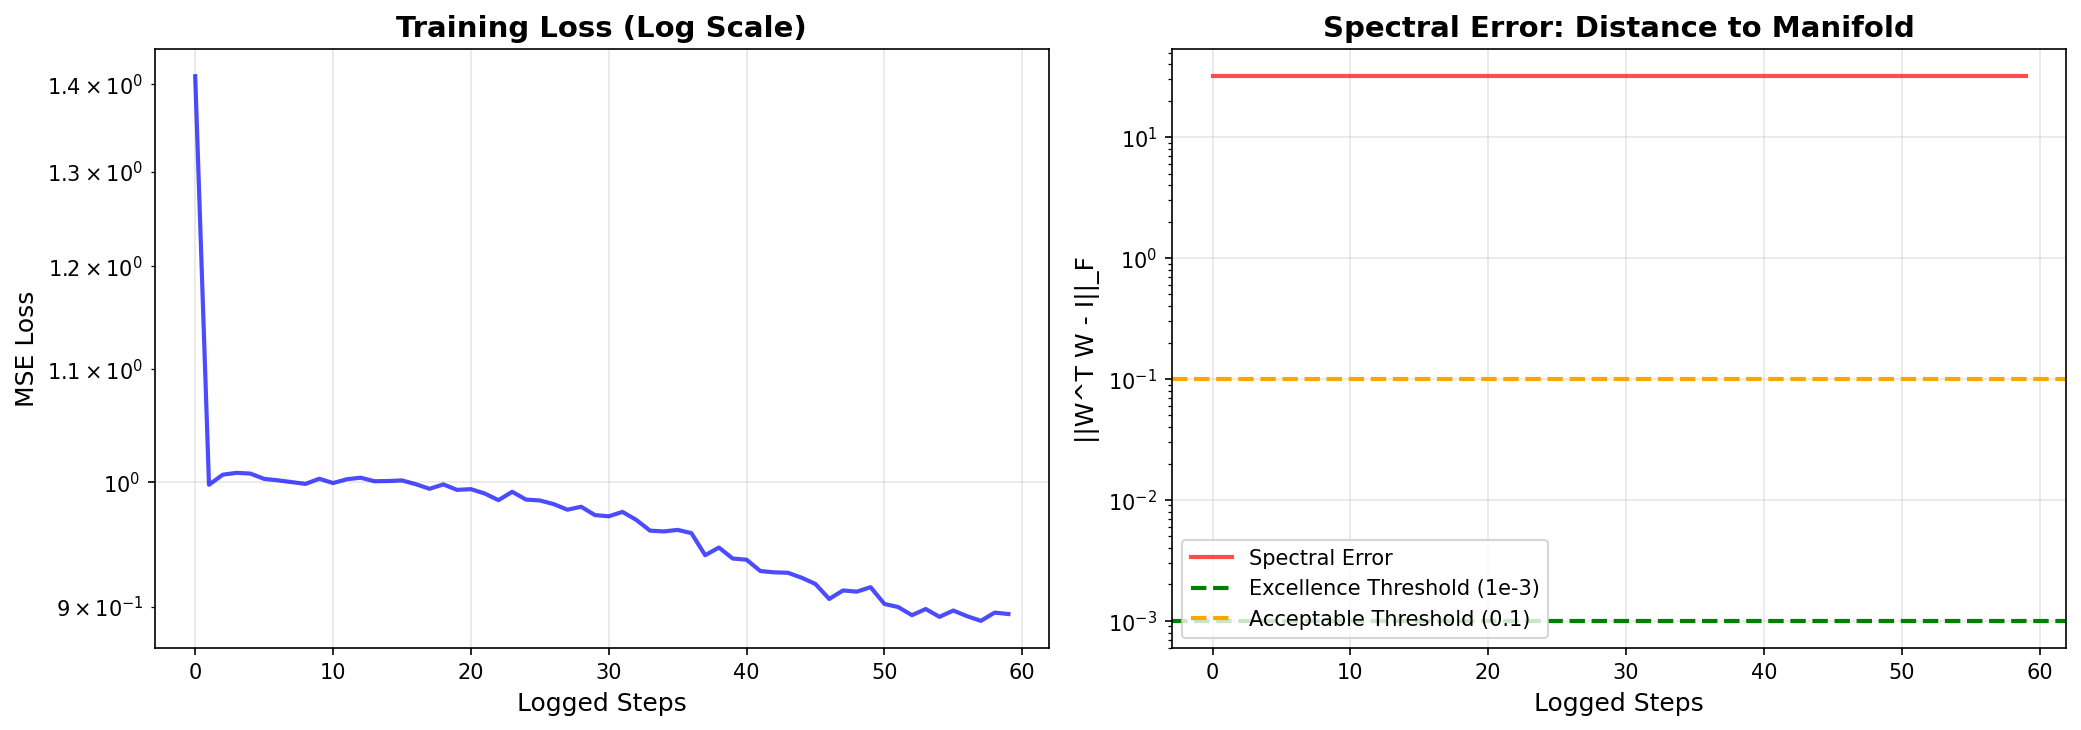
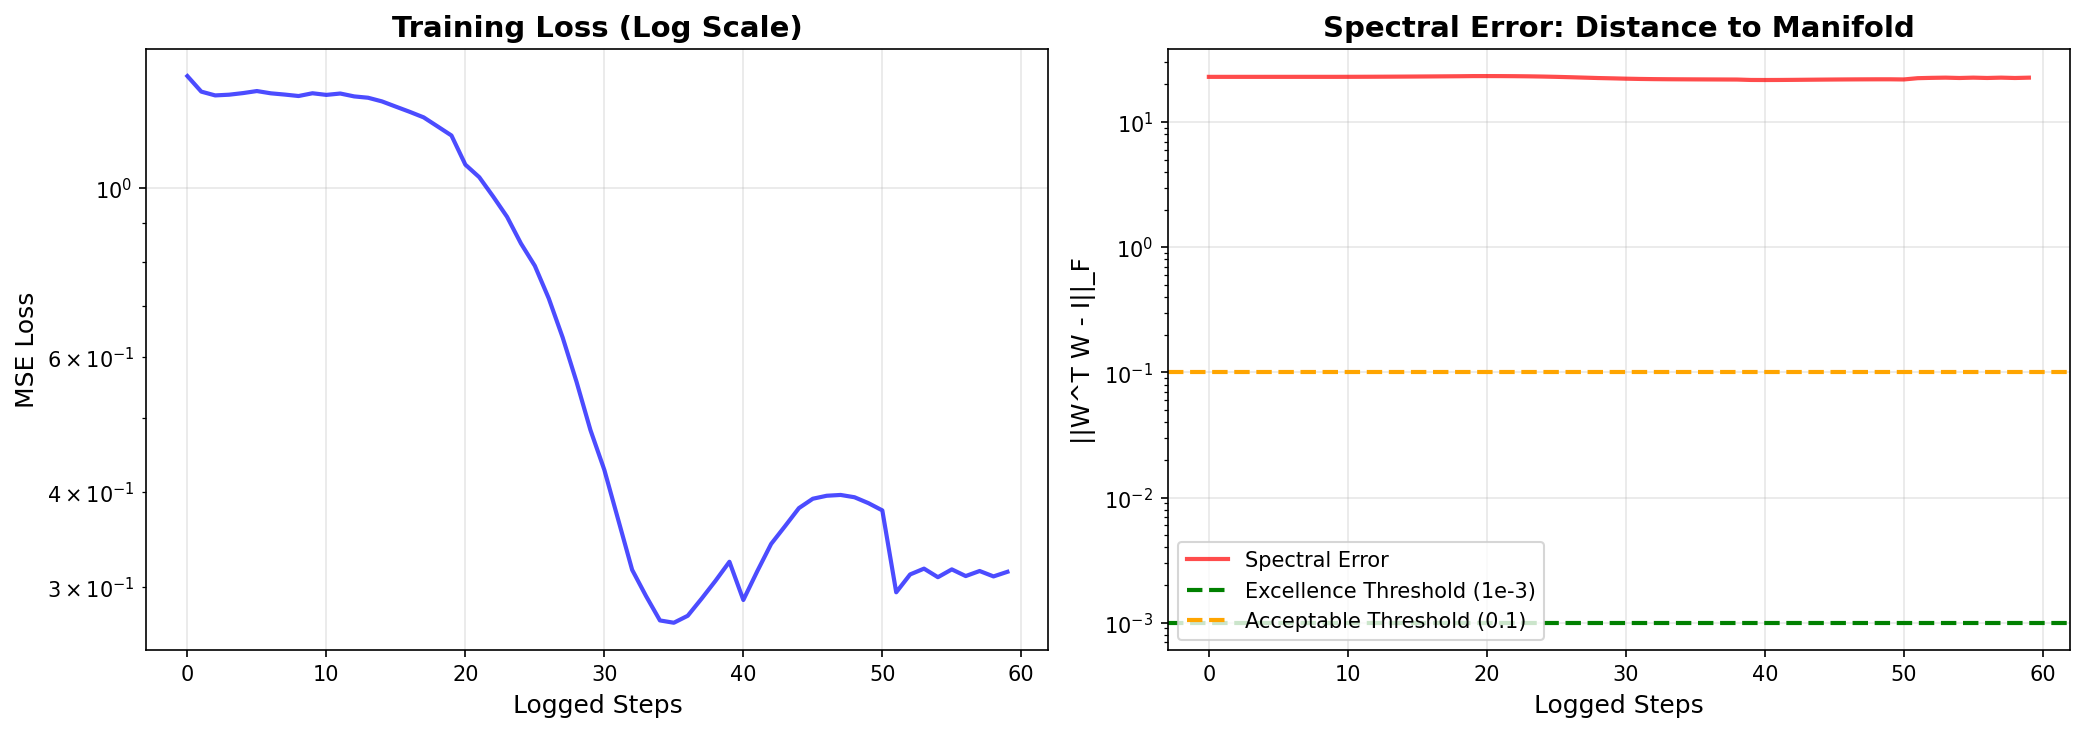
Passed all tests.

diff --git a/sf_muon.py b/sf_muon.py
@@ -57,9 +57,9 @@ def quintic_newton_schulz(G, steps=5, eps=1e-7):
     """
     # Quintic coefficients for strict orthogonality (sum=1)
     # Derived for 3rd order convergence to I: f(1)=1, f'(1)=0, f''(1)=0
-    # a, b, c = 1.875, -1.25, 0.375        # Strict (converges to I)
-    a, b, c = 3.4445, -4.7750, 2.0315  # Original Muon (approximate, scales to ~0.8)
-    
+    a, b, c = 1.875, -1.25, 0.375        # Strict (converges to I)
+    # a, b, c = 3.4445, -4.7750, 2.0315  # Original Muon (approximate, scales to ~0.8)
+
     # Handle multi-dimensional tensors (e.g., Conv2D kernels)
     original_shape = G.shape
     original_dtype = G.dtype
@@ -107,9 +107,9 @@ def quintic_newton_schulz(G, steps=5, eps=1e-7):
         
     # Post-conditioning: Re-normalize to ensure we don't shrink
     # We force the Frobenius norm back to sqrt(N) (spectral norm ~ 1)
-    current_norm = X.norm(p='fro') + eps
-    target_norm = math.sqrt(X.size(0))
-    X = X.mul(target_norm / current_norm)
+    # current_norm = X.norm(p='fro') + eps
+    # target_norm = math.sqrt(X.size(0))
+    # X = X.mul(target_norm / current_norm)
     
     # Restore orientation if transposed
     if transpose_needed:
@@ -376,6 +376,6 @@ class ScheduleFreeMuon(optim.Optimizer):
                     state = self.state[p]
                     if 'y' in state:
                         # High-precision projection (10 steps vs 1 during training)
-                        state['y'] = quintic_newton_schulz(state['y'], steps=10)
+                        state['y'] = quintic_newton_schulz(state['y'], steps=20)
                         # Load projected weights into model
                         p.data.copy_(state['y'])

diff --git a/stress_test_manifold.py b/stress_test_manifold.py
@@ -257,9 +257,9 @@ def run_comparison_test():
         
         # Train for 100 steps (quick test)
         W_target = torch.linalg.qr(torch.randn(dim, dim, device=device))[0]
-        optimizer = ScheduleFreeMuon(model.parameters(), lr=0.05)
+        optimizer = ScheduleFreeMuon(model.parameters(), lr=0.02)
         
-        for _ in range(100):
+        for _ in range(200):
             optimizer.zero_grad()
             x = torch.randn(64, dim, device=device)
             y_true = x @ W_target.T
